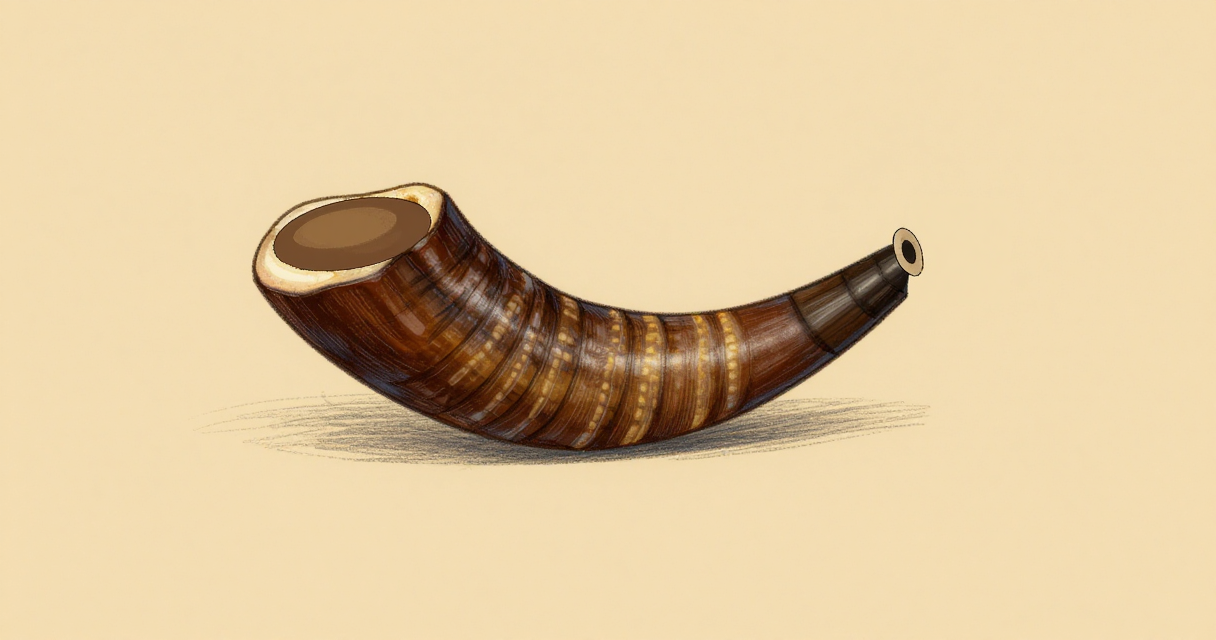
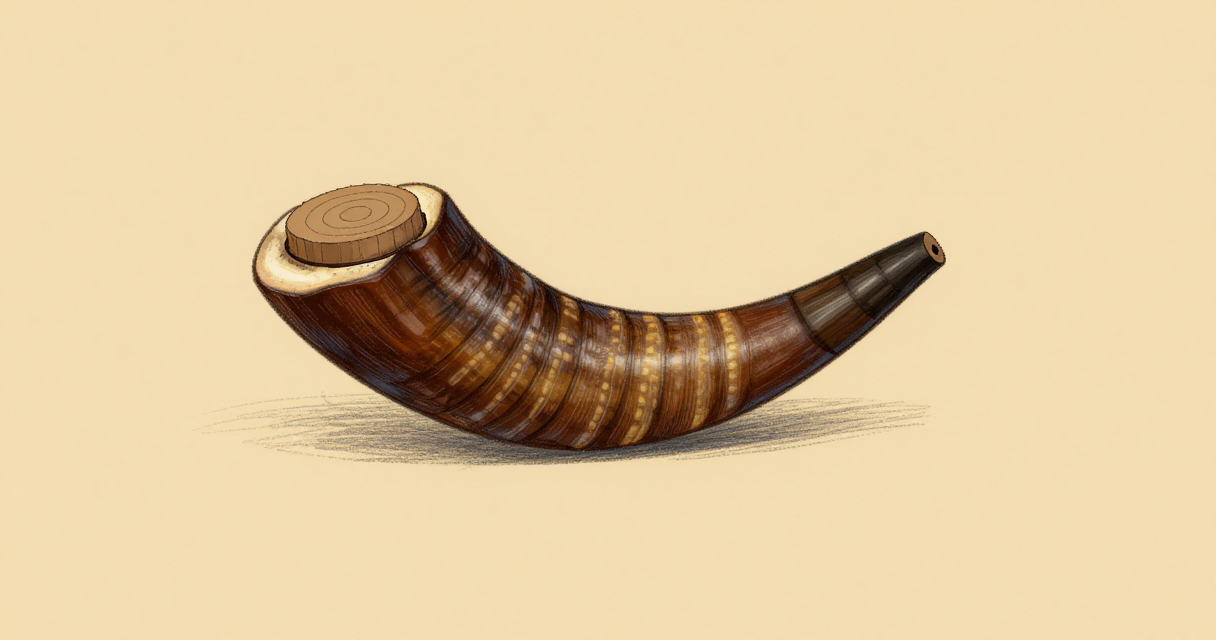
feat(canon): 기름 뿔 정본 — 나무 원통 마개·뿔 색 단면 끝에 작은 구멍(658, 사람 657)
사람 657 「구멍이 자연스럽지 않음.. 마개는 진흙인가?」 → 사람 「나무 마개」.
마개를 입구에서 위로 조금 튀어나온 나무 원통(옆면 나뭇결·윗면 나이테·둘레 그림자)으로,
끝은 뿔 축(-31°)에 수직으로 x 935에서 잘라 단면을 뿔 굵기·뿔 색 그대로 두고 가운데 작은 구멍만.

Claude-Session: https://claude.ai/code/session_012hBPKFwr9raj2757bWq1Lv

Changed region(s): [[0.2188, 0.2812, 0.375, 0.4375], [0.7188, 0.3438, 0.7812, 0.4688]]

diff --git a/scripts/canon/batch/horn_sheet_fix.py b/scripts/canon/batch/horn_sheet_fix.py
@@ -1,4 +1,4 @@
-"""task 656 — 정본 s5에 잘린 끝·입구 마개를 칠하고 같은 생성기로 약하게 다시 그림(사람 655 「뾰족한 끝이 잘려 있어야 … 입구에는 마개」)."""
+"""task 656·658 — 정본 s5에 잘린 끝·입구 마개를 칠하고 같은 생성기로 약하게 다시 그림(사람 655 「뾰족한 끝이 잘려 있어야 … 입구에는 마개」)."""
 import os, sys
 CANON = "/Users/calmonion/Project/BibleMap/scripts/canon"
 sys.path.insert(0, CANON); sys.path.insert(0, os.path.join(CANON, "batch"))
@@ -10,15 +10,42 @@ def compose():
     im = Image.open(os.path.join(D, "sheet-s5.png")).convert("RGB")
     d = ImageDraw.Draw(im)
     paper = im.getpixel((1050, 150))
-    d.rectangle([908, 196, 1010, 300], fill=paper)                        # 끝 바깥을 종이색으로(둘레 화소 메움은 그림자 얼룩 — 656)
-    def ell(cx, cy, rx, ry, deg, n=48):
+    def ell(cx, cy, rx, ry, deg, n=64):
         a = math.radians(deg)
         return [(cx + rx * math.cos(t) * math.cos(a) - ry * math.sin(t) * math.sin(a),
                  cy + rx * math.cos(t) * math.sin(a) + ry * math.sin(t) * math.cos(a)) for t in (2 * math.pi * i / n for i in range(n))]
-    d.polygon(ell(908, 252, 13, 25, -20), fill=(205, 170, 120), outline=(60, 38, 20))   # 잘린 면(보는 쪽으로 조금 돌림)
-    d.polygon(ell(909, 252, 6, 12, -20), fill=(25, 15, 8))                                # 크고 짙은 주둥이 구멍(사람 656 「구멍 뚫는데 잘보이게」)
-    d.polygon(ell(352, 234, 80, 34, -11), fill=(122, 80, 44), outline=(64, 40, 22))      # 입구 안쪽 타원을 꽉 채운 마개(사람 656 「마개는 입구에 맞게」)
-    d.polygon(ell(345, 228, 52, 18, -11), fill=(150, 104, 60))                           # 마개 윗면 결
+    def hull(pts):
+        pts = sorted(set(pts)); cr = lambda o, a, b: (a[0]-o[0])*(b[1]-o[1]) - (a[1]-o[1])*(b[0]-o[0])
+        lo, up = [], []
+        for q in pts:
+            while len(lo) >= 2 and cr(lo[-2], lo[-1], q) <= 0: lo.pop()
+            lo.append(q)
+        for q in reversed(pts):
+            while len(up) >= 2 and cr(up[-2], up[-1], q) <= 0: up.pop()
+            up.append(q)
+        return lo[:-1] + up[:-1]
+    # 끝: 뿔 축(약 -31°)에 수직으로 x 935에서 자름 — 단면은 뿔 굵기 그대로·뿔 색, 가운데 작은 구멍(사람 657 「구멍이 자연스럽지 않음」 — 옅은 원판이 와셔처럼 보였음)
+    cx, cy, ux, uy = 935, 250, math.cos(math.radians(-31)), math.sin(math.radians(-31))
+    px = im.load()
+    for x in range(915, 1000):
+        for y in range(195, 315):
+            if (x - cx) * ux + (y - cy) * uy > 0: px[x, y] = paper
+    d.polygon(ell(cx, cy, 18, 6, 59), fill=(104, 70, 40), outline=(40, 27, 16))
+    d.polygon(ell(cx + 1, cy - 1, 12, 3.5, 59), fill=(124, 86, 50))                       # 단면 결(가운데 조금 밝게)
+    d.polygon(ell(cx, cy, 4, 2.5, 59), fill=(22, 13, 6))                                 # 작은 주둥이 구멍
+    # 입구: 위로 조금 튀어나온 나무 원통 마개(사람 657 「마개는 진흙인가?」 → 사람 「나무 마개」)
+    mx, my, rx, ry, deg, ox, oy = 356, 234, 67, 27, -11, -4, -20
+    d.polygon(ell(mx, my, 72, 31, deg), fill=(38, 24, 12))                                # 마개와 입구 테 사이 그림자
+    base, top = ell(mx, my, rx, ry, deg), ell(mx + ox, my + oy, rx, ry, deg)
+    d.polygon(hull([(round(x), round(y)) for x, y in base + top]), fill=(146, 100, 58), outline=(70, 45, 24))
+    for i in range(10, 31, 3):                                                           # 옆면 나뭇결(앞쪽 = 아래 반만 보임)
+        (x0, y0), (x1, y1) = base[i], top[i]
+        d.line([(x0, y0), (x1 + 1, y1)], fill=(112, 74, 40), width=2)
+    for i in range(0, 9):                                                                # 오른쪽 옆면 그늘
+        d.line([base[i], top[i]], fill=(118, 80, 44), width=3)
+    d.polygon(top, fill=(188, 142, 92), outline=(92, 60, 32))                            # 윗면(나무 끝면)
+    for k in (0.75, 0.5, 0.25):                                                          # 나이테
+        d.polygon(ell(mx + ox + 4, my + oy, rx * k, ry * k, deg), outline=(150, 106, 64))
     im.save(os.path.join(D, "fix-src.png"))
 
 
@@ -26,8 +53,8 @@ def redraw():
     import run_scene, prop_sheet as P
     os.chdir(CANON)
     prompt = (f"{P.STYLE} A single object drawn alone on plain warm cream paper, with nothing else: {P.look('oil-horn')}, "
-              "lying on its side, its wide opening at the upper left closed by a fitted round wooden stopper, the body sagging into a gentle curve "
-              "and rising to the right, its tip cut off flat with a small hole. No hands, no people, no background, no text.")
+              "lying on its side, its wide opening at the upper left closed by a short round wooden plug with visible wood grain that sticks out slightly, the body sagging into a gentle curve "
+              "and rising to the right, its narrow tip cut off square with a tiny drilled hole in the dark horn. No hands, no people, no background, no text.")
     jobs = [{"prompt": prompt, "seed": 5, "w": 1216, "h": 640, "src": os.path.join(D, "fix-src.png"), "strength": s,
              "out": os.path.join(D, f"fix-{s}.png")} for s in (0.2, 0.25)]
     tmp = os.path.expanduser("~/.local/biblemap-imggen/prop-oil-horn-lying"); os.makedirs(tmp, exist_ok=True)
